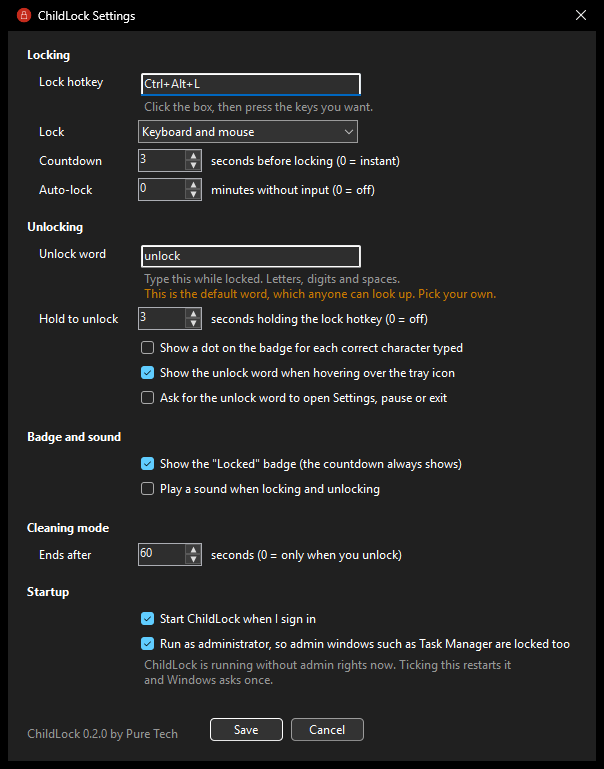
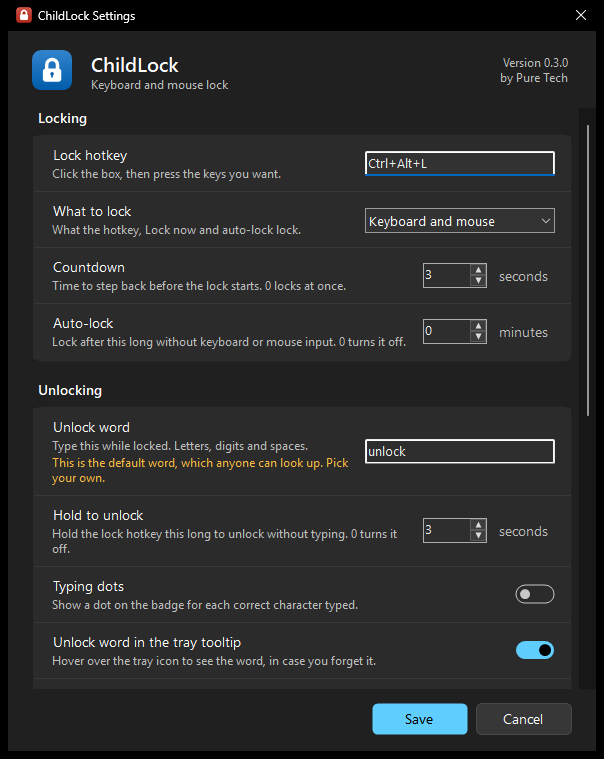
Update for ChildLock 0.3.0, order software by latest release (0.2.1)
- ChildLock page: new Settings screenshot, the cleaning mode ring, and
  three figures from the 0.3.0 release notes
- Bars now show a figure that went up as the longer bar
- Software list is ordered by latest release, newest first
- Release notes that open with a label and a list get a summary line
- Libraries page: ChildLock is built on puretech-tray for .NET

diff --git a/tests/data.test.ts b/tests/data.test.ts
@@ -2,6 +2,8 @@ import { test } from 'node:test';
 import assert from 'node:assert/strict';
 import { readFileSync } from 'node:fs';
 import {
+  barWidths,
+  byLatestRelease,
   compareVersions,
   formatBytes,
   formatDate,
@@ -116,7 +118,7 @@ test('releaseHeadline drops the heading marks and the date', () => {
   assert.equal(releaseHeadline(rel({ body: '### 2026-11-12: Latheport 1.5.0, an editor\n\ntext' })), 'Latheport 1.5.0, an editor');
   assert.equal(releaseHeadline(rel({ body: '- a list', name: 'ConvertAll 1.2.0' })), 'ConvertAll 1.2.0');
   assert.equal(releaseHeadline(rel({ body: '' })), 'v1.0.0');
-  assert.equal(releaseHeadline(rel({ body: 'New:\n\n- a thing', name: 'App 0.2.0' })), 'App 0.2.0');
+  assert.equal(releaseHeadline(rel({ body: 'New:\n\n![a picture](x.png)', name: 'App 0.2.0' })), 'App 0.2.0');
   assert.equal(
     releaseHeadline(rel({ body: '**Download:** `App.zip` below.\n\n### 2026-11-12: App 1.5.0, an editor\n\ntext' })),
     'App 1.5.0, an editor',
@@ -139,6 +141,46 @@ test('releaseSummary drops the leading name and version', () => {
   assert.equal(releaseSummary(rel({ body: '## FrameKeep 3.1.1: Recordings fix' })), 'Recordings fix');
   assert.equal(releaseSummary(rel({ body: '# V2.1.0 Changelog' })), '');
   assert.equal(releaseSummary(rel({ body: 'Licensed under GPLv3 - see LICENSE file for details' })), '');
+});
+
+test('notes that open with a label and a list get the label and the first point', () => {
+  const body = 'New look:\n\n- Settings is rebuilt in the Windows 11 style: a header, one card per group.\n- New icon.\n\nFixed:\n\n- A thing.';
+  assert.equal(releaseHeadline(rel({ body })), 'New look: Settings is rebuilt in the Windows 11 style');
+  assert.equal(releaseSummary(rel({ body })), 'New look: Settings is rebuilt in the Windows 11 style');
+  assert.equal(
+    releaseSummary(rel({ body: 'New:\n\n- Lock only the keyboard, from the tray (**Lock only**) or the [hotkey](https://example.test). More.' })),
+    'New: Lock only the keyboard, from the tray (Lock only) or the hotkey',
+  );
+  const long = 'New:\n- ' + 'word '.repeat(40) + 'end';
+  const clipped = releaseHeadline(rel({ body: long }));
+  assert.ok(clipped.length <= 120 && clipped.endsWith('...'), clipped);
+  assert.equal(releaseHeadline(rel({ body: 'New:\n\nplain text, not a list', name: 'App 1.0.0' })), 'App 1.0.0');
+});
+
+test('byLatestRelease puts the newest release first and unreleased entries last', () => {
+  const repo = (date: string | null) => ({
+    description: null,
+    url: '',
+    language: null,
+    license: null,
+    pushedAt: '',
+    releases: date ? [rel({ publishedAt: date })] : [],
+  });
+  const snap = {
+    fetchedAt: '',
+    pulls: [],
+    repos: { a: repo('2026-10-31T00:00:00Z'), b: repo(null), c: repo('2026-11-15T00:00:00Z'), d: repo('2026-10-31T00:00:00Z') },
+  };
+  const order = byLatestRelease([{ repo: 'a' }, { repo: 'b' }, { repo: 'c' }, { repo: 'd' }], snap).map((x) => x.repo);
+  assert.deepEqual(order, ['c', 'a', 'd', 'b']);
+});
+
+test('barWidths scales both bars to the larger value', () => {
+  assert.deepEqual(barWidths(68, 38), { before: 100, after: 56 });
+  assert.deepEqual(barWidths(392.7, 421.4), { before: 93, after: 100 });
+  assert.deepEqual(barWidths(4, 0), { before: 100, after: 0 });
+  assert.deepEqual(barWidths(1000, 1), { before: 100, after: 1 });
+  assert.deepEqual(barWidths(0, 0), { before: 0, after: 0 });
 });
 
 test('ratioPercent stays between 1 and 100', () => {

diff --git a/src/data/pages.ts b/src/data/pages.ts
@@ -107,7 +107,7 @@ export const pages: Record<string, PageContent> = {
       'Locks every key, including Win, Alt+Tab, Alt+F4 and the media keys, plus the whole mouse or touchpad.',
       'Or locks only the keyboard, or only the mouse.',
       'Unlocks when you type your secret word, or hold the lock hotkey (Ctrl+Alt+L) for 3 seconds.',
-      'Cleaning mode blacks out every screen and locks input while you wipe the keyboard. It ends by itself after a minute.',
+      'Cleaning mode blacks out every screen and locks input while you wipe the keyboard. A ring around the padlock shows the time left, and it ends by itself after a minute.',
       'Keeps the PC awake while locked, so a video is not cut off by sleep or the screensaver.',
       'Locks from a hotkey, from the tray menu, or after a set number of idle minutes.',
     ],
@@ -122,6 +122,30 @@ export const pages: Record<string, PageContent> = {
         after: { value: 1_000_000, text: '1,000,000', note: '0 unlocks' },
         conditions: 'A test of 1,000,000 random key presses against the default unlock word, "unlock". It never unlocked.',
         source: { label: 'ChildLock README', url: `${GH}/childlock#features` },
+      },
+      {
+        label: 'Key events let through on unlock',
+        before: { value: 4, text: '4', note: 'version', ref: '0.2.0' },
+        after: { value: 0, text: '0', note: 'version', ref: '0.3.0' },
+        conditions:
+          'In the test that holds the hotkey to unlock. Keys still held at the moment ChildLock unlocks used to reach the app in front. They are now swallowed until you let go.',
+        source: { label: 'ChildLock 0.3.0 release notes', url: `${GH}/childlock/releases/tag/v0.3.0` },
+      },
+      {
+        label: 'Slowest input callback when a lock starts',
+        before: { value: 1.6, text: '1.6 ms', note: 'version', ref: '0.2.0' },
+        after: { value: 0.38, text: '0.38 ms', note: 'version', ref: '0.3.0' },
+        conditions:
+          'The slowest callback ranged from 0.6 to 1.6 ms in 0.2.0 and from 0.26 to 0.38 ms in 0.3.0. The average went from about 25 to about 10 microseconds.',
+        source: { label: 'ChildLock 0.3.0 release notes', url: `${GH}/childlock/releases/tag/v0.3.0` },
+      },
+      {
+        label: 'Size of the exe',
+        before: { value: 392.7, text: '392.7 KB', note: 'version', ref: '0.2.0' },
+        after: { value: 421.4, text: '421.4 KB', note: 'version', ref: '0.3.0' },
+        conditions:
+          'This one went up: 0.3.0 is 7% larger (392,681 to 421,353 bytes on the same PC, measured back to back). Start time is unchanged, private memory went from 11.3 to 12.1 MB, and there is still no measurable CPU when idle.',
+        source: { label: 'ChildLock 0.3.0 release notes', url: `${GH}/childlock/releases/tag/v0.3.0` },
       },
     ],
     limitsTitle: 'What it cannot block',

diff --git a/src/lib/data.ts b/src/lib/data.ts
@@ -153,7 +153,42 @@ export function releaseHeadline(release: Release): string {
     const sentence = first.match(/^.{20,}?[.!?](?=\s|$)/)?.[0] ?? first;
     return sentence.length <= 180 ? sentence : first.slice(0, 177).trimEnd() + '...';
   }
+  // Notes that open with a label and a list ("New look:" then points): the label and
+  // the first point, up to its first full stop or colon, say what the release is about.
+  const second = opening[1] ?? '';
+  if (first.endsWith(':') && first.length <= 40 && /^[-*]\s/.test(second)) {
+    const point = plainText(second.replace(/^[-*]\s+/, ''));
+    const stop = point.search(/[.:](?:\s|$)/);
+    const lead = (stop > 0 ? point.slice(0, stop) : point).trim();
+    if (lead) return clip(`${first} ${lead}`, 120);
+  }
   return release.name ?? release.tag;
+}
+
+/** Markdown emphasis, code marks and links removed, leaving the words. */
+function plainText(markdown: string): string {
+  return markdown
+    .replace(/\[([^\]]*)\]\([^)]*\)/g, '$1')
+    .replace(/\*\*|`/g, '')
+    .replace(/\s+/g, ' ')
+    .trim();
+}
+
+/** Cuts at a word boundary and marks the cut, when the text is longer than the limit. */
+function clip(text: string, limit: number): string {
+  if (text.length <= limit) return text;
+  const cut = text.slice(0, limit - 3);
+  return cut.slice(0, cut.lastIndexOf(' ')).trimEnd() + '...';
+}
+
+/**
+ * Most recently released first. Entries with no release go last, and ties keep the order they were given in.
+ */
+export function byLatestRelease<T extends { repo: string }>(items: T[], snapshot: Snapshot): T[] {
+  return items
+    .map((item, index) => ({ item, index, at: latestRelease(snapshot.repos[item.repo])?.publishedAt ?? '' }))
+    .sort((a, b) => (a.at === b.at ? a.index - b.index : a.at < b.at ? 1 : -1))
+    .map((entry) => entry.item);
 }
 
 /** The headline without a leading "Name 1.2.3," so it can sit beside the name and version. */
@@ -184,6 +219,17 @@ export function liveDownload(repo: RepoSnapshot | undefined): { value: number; t
   const asset = primaryAsset(release);
   if (!release || !asset) return null;
   return { value: asset.size / 1_000_000, text: formatBytes(asset.size), note: 'version', ref: versionFromTag(release.tag) };
+}
+
+/**
+ * Widths for a before bar and an after bar, as whole percentages of the larger value.
+ * A figure that went up gets the longer after bar, and a zero gets no bar at all.
+ */
+export function barWidths(before: number, after: number): { before: number; after: number } {
+  const max = Math.max(before, after);
+  if (max <= 0) return { before: 0, after: 0 };
+  const width = (v: number) => (v <= 0 ? 0 : Math.max(1, Math.round((v / max) * 100)));
+  return { before: width(before), after: width(after) };
 }
 
 /** Share of the "before" value that the "after" value takes, as a whole percentage (1 to 100). */

diff --git a/src/data/libraries.ts b/src/data/libraries.ts
@@ -71,6 +71,7 @@ export const libraries: Library[] = [
     install: 'dotnet add reference ../puretech-tray-dotnet/src/PureTech.Tray/PureTech.Tray.csproj',
     language: 'C#',
     license: 'MIT',
+    usedIn: { name: 'ChildLock', href: '/software/childlock/' },
   },
   {
     repo: 'puretech-player',

diff --git a/CHANGELOG.md b/CHANGELOG.md
@@ -1,5 +1,18 @@
 # Changelog
 
+## 0.2.1 (2026-11-15)
+
+- Changed: the ChildLock page is up to date with ChildLock 0.3.0: the new Settings screenshot, the ring in
+  cleaning mode, and three figures from its release notes (key events let through on unlock, 4 to 0; slowest
+  input callback, 1.6 ms to 0.38 ms; size of the exe, 392.7 KB to 421.4 KB).
+- Changed: when a figure goes up, its bars now show that. Both bars are scaled to the larger value, so the
+  after bar is the longer one. Before, an increase drew two equal bars.
+- Added: the Libraries page says ChildLock is built on puretech-tray for .NET.
+- Changed: the software list is ordered by latest release, newest first, on the home page and the Software
+  page. It was a fixed order.
+- Fixed: releases whose notes open with a label and a list ("New look:" and then points) now get a summary
+  line in Latest releases and on the Updates page. ChildLock 0.3.0 and 0.2.0 had none.
+
 ## 0.2.0 (2026-11-14)
 
 - Added: a Games section on the home page. We have started making games, and it says so and nothing more:
